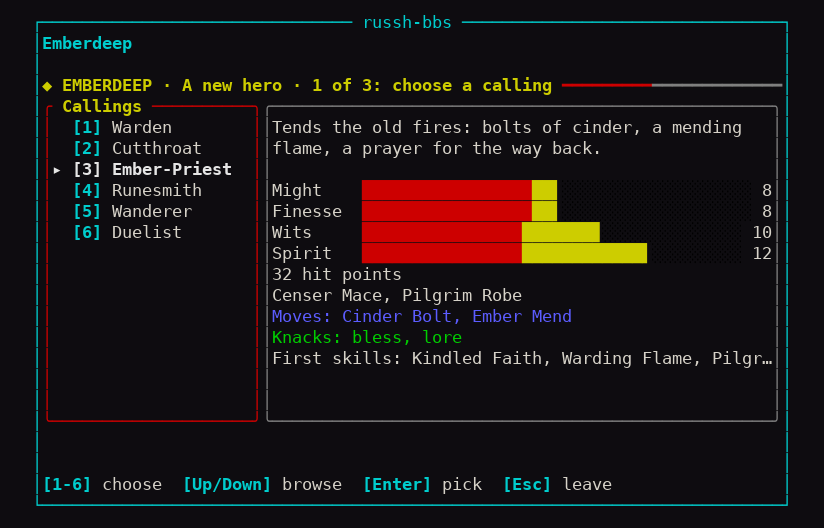
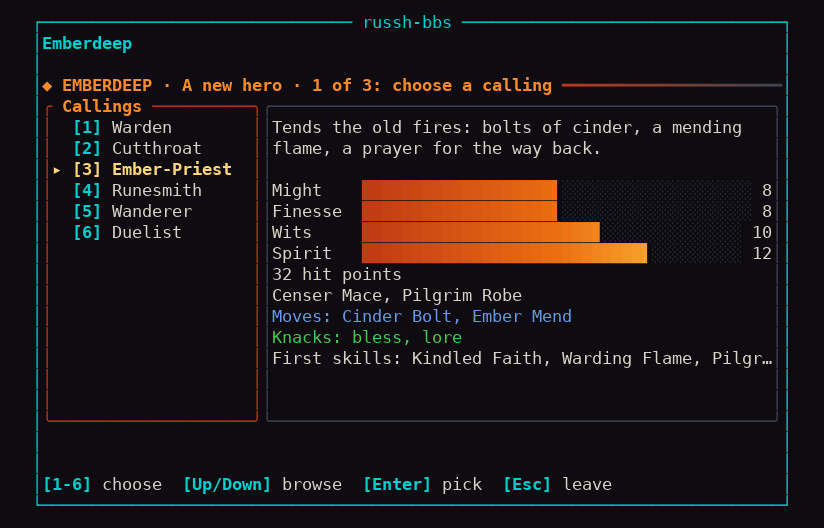
M4-E3: truecolor and 16-colour real-ssh screenshots, docs for client colour depth (D109), re-pin snapshots
Claude-Session: https://claude.ai/code/session_01HBFSyCPaUNCc1bchjmompo

diff --git a/crates/doors/emberdeep/src/session/ui/places.rs b/crates/doors/emberdeep/src/session/ui/places.rs
@@ -747,7 +747,7 @@ fn tavern(
             frame.render_widget(
                 plain_table(
                     cx,
-                    &["The board", "Depth", "Pay", "Days"],
+                    &["The board", "Lvl", "Pay", "Days"],
                     &[
                         Constraint::Fill(1),
                         Constraint::Length(4),

diff --git a/docs/decisions.md b/docs/decisions.md
@@ -127,4 +127,4 @@ Decided items are not reopened without the owner. Open items need the owner befo
 | D112 | **Long Haul crew, events, combat and contracts (M4-L2; builds D98, D103).** (1) **One scene at a time, saved with the captain.** An open transit event, ship fight or boarding is `Player::scene`; while one is open the only legal actions are its own (`Choose`, `Fight`, `Run`, `Wreck`, `Skirmish`) and everything else is refused `Busy`. Dropping the line mid-scene resumes it with the same state, so a reload cannot reroll a fight or an event. *Not taken:* resolving scenes in one call (no choices, no telegraph) and keeping the scene only in the session (a disconnect would reroll it). (2) **The save is append-only: format 2 = the L1 body plus a tail.** Standing for the Guild and the Church, the four new ledger causes, crew, contracts, flags, the keys of jobs and recruits already taken and the scene are appended after the L1 body, so the framework migration `1 -> 2` is "change the format byte and append an empty tail" and cannot lose or reinterpret anything L1 wrote (a frozen L1 save is in `tests/saves.rs`). The decoder still reads format 1. *Not taken:* rewriting the body in place (a migration that has to understand every field). (3) **A role adds to the captain, it does not replace them.** The best fit hand of a role adds half their skill rounded up (and one more once sworn) to the matching captain skill for jumps, repairs, trade spreads, inspections and survey value (`Player::eff`), never above 10; experience is earned on the captain's own level only. A hurt hand adds nothing; a scar costs a point. Events, combat and boarding also ask for roles directly (`Req::Role`): a sealed door opens to the party's engineering, a cache is read by a scientist or a captain with Surveying 3, a gunner leads the party. *Not taken:* crew as a flat stat block (the RPG rule asks for options that exist or do not). (4) **Mood moves loyalty; a goal ends the argument.** Four mood parts (pay, food, danger, treatment) sum to a daily loyalty drift of -3 to +2; meeting the hand's goal swears them to the ship (loyalty floor 70, a point more skill, they never desert). Unsworn hands at loyalty 15 or under walk at the next dock, alone or, two or more together, as a mutiny that takes a fifth of the purse. Wages are weekly, rations are bought at a dock and last a week, danger heals with calm days and treatment drifts to zero. (5) **Events are data with requirements, not code.** `content/transit.toml` holds 60 events; an option may carry requirements (role, sworn role, crew, skill, standing, flag, cargo, passenger, hazard, economy, weapons, scanner, background, `not`) and a closed option shows why. Weights are scaled by the system, cargo, standing and crew (`mods`), once-only events set a flag, and an outcome's weight can be tilted by a crew mix (`bonus`). The schema test rejects an event with no option anyone can take. (6) **Combat is bands, a reactor budget and an honest telegraph that can lie.** Three bands (far, mid, close), a reactor of 5 to 8 points (+1 and +2 for a good engineer) split each round between weapons, shields and engines plus a manoeuvre; the enemy's next move is shown before the captain commits, and an enemy with `feint_pm` can show a different one unless a scanner and a pilot see through it. Running is never refused. A fight ends by wreck, flight, defeat (hull at a tenth or less: cargo, cash and sometimes a hand are lost; League ships fine and seize contraband) or after 24 rounds. (7) **Jobs are a pure function of the station and a three-day epoch,** so every captain sees the same board and reconnecting cannot reroll it; standing gates what is shown (a faction at -40 posts nothing, bounties and escorts need +15 and +10, +25 pays a third more), a completed job moves its faction and (by a third) its rival. The Guild posts only at research stations and the Church at about a third of stations. Client cargo counts against the hold and client contraband is found by customs and kills the job. (8) **Not in this slice:** the shared-world effects of kills and outposts, convoys, opt-in piracy and the arcs (L4), and the full UI (L3). |
 | D107 | **Hallpass engine (M4-H1; builds D98).** (1) **Nine slots a day**, not seven: seven periods (four lessons, lunch, free, after school) plus evening and lights-out, because the design's night is where the mystery will live; the count and the day shapes are data (`timetable.toml`), so the open question "seven periods?" costs a table edit, not code. *Not taken:* seven slots with evening and night as screens outside the timetable (the schedules of staff and prefects at night, and what a patrol is, need the slots to be real). (2) **One engine type, `Game`, owns every rule; the screen is a client.** A character plus a snapshot of the world; every change is an `Action` returning typed `Event`s; the list of legal actions is built by trying each proposed action on a copy, so the menu can never offer what the engine refuses. *Not taken:* rules in the screen (D98: front ends stay thin). (3) **A hand-written binary codec** (`wire.rs`) for the save and the world, because the sandbox allows only `serde` and `toml` and `toml` here cannot write; reads are bounds-checked and exact, versions are the framework's. *Not taken:* a new serialization dependency (the sandbox audit would refuse it) or a text save (size against the 64 KiB cap). (4) **The shared world is changed only through pure, idempotent deltas** (`WorldDelta`): an effect already in force is not stacked, so the framework's retry on a conflict is safe. A session sees the world as it was when the visit opened; the framework has no in-session world read (noted for the framework owner). (5) **Content is data and the tone rules are tests**: no target is a Stray, targets are table ids and never typed, and every text is plain; a stray target or an unprankable prefect fails the schema test. (6) **Detention falls due the morning after it is given** (`due`), so a bust does not punish you for the period you are already in; missing it is a file entry. (7) **The term is 42 days from the world's first day**, rolled over by the daily tick; a character whose term has passed is closed out and starts again with their history. Tuning numbers (odds, file levels, allowance) live in `rules.toml` and are first values from the simulation, not decisions. | M4-H1 | Decided (2026-11-04, implementing session) |
 | D109 | **The application frame, tables, popups and colour depth (UI-1; builds D18, D39, D45, D49, D52, D54, D82, D93; amends D93 (1)).** (1) **Frame** (`ui::frame`). A header bar (board name, area name, `UTC HH:MM`) and a status bar (the screen's keys) around a body rectangle. A screen builds `FrameSpec::new(strings, look, tier).markers(..).place(..).clock(..).hints(..)`, calls `draw(frame)` and draws its content into the returned body. The bars take **chrome only**: `ChromeText` can be built only from the string table or a `'static` str, so member text cannot be passed to a bar. The status bar needs 2 rows and is always drawn from then on (this amends D93 (1), which reserved a row only when a marker applied: the row now carries hints, and still no marker is drawn on a member screen over ssh, no `SERVER-READABLE`, no privacy notice); the header needs 12 rows and 40 columns and is not drawn for the compact layout. (2) **The marker cell** is the status bar's left cell, drawn by `chrome::status_cell` (the one place that styles markers) with the reserved style and **no colour of its own**: the bar's background starts after it. It is outside the body, so ratatui's clipping keeps tables, popups and content out of it. **Reverse video belongs to the markers alone**: no bar, table row, header, popup or highlight uses it (the selected row is a pointer, bold, underline and the theme's selection colour; mono gets the pointer and weight). Tests assert, at 80x24, 100x30 and 132x43, in every tier, depth, theme, layout and with hostile content, that the reverse style is on the marker cells and on nothing else. (3) **Table** (`ui::table`): `TableSpec { title, columns: Vec<Column{title, Width::{Fixed,Min,Fill}, right, from_width}>, rows: Vec<TableRow{cells, detail}>, selected: Option<usize>, bordered, top, empty, numbered, footer }` and `render(frame, area, look, &spec) -> TableView{top, shown}`. The window follows the selection and the caller stores `TableView` (the forum lists keep it in `ListView` for their paging and `1`-`9` keys, FIX-M3-4). `Cell::content` is sanitized by the shared sanitizer when drawn (only the visible rows, so a long list costs nothing off screen), `Cell::chrome`/`plain` are not; columns that give way on narrow tables drop with their cells; the scrollbar and ellipsis follow the tier; cells are drawn one by one because a ratatui `Table` per row solved a layout per row (about 1.4 ms a row in a debug build). (4) **Popup** (`ui::popup`): `Popup { kind: Info|Error|Confirm, title, lines: Vec<PopupLine>, keys }` and `render(frame, body, look, &popup)`. It is placed and clamped inside the body it is given, so it cannot cover a bar or the marker cell; the kind is a title word, colour is extra. Forum errors and the remove confirmation are popups; info notices stay a line. (5) **Colour depth** (`ui::depth`): `ColorDepth::{Mono, Ansi16, Ansi256, TrueColor}`; `detect(term, colorterm)` reads `COLORTERM=truecolor|24bit`, `TERM` (`*-direct`, kitty, alacritty, wezterm, ghostty, foot, iterm: truecolor; `*256color`: 256; `dumb`, `unknown`, `vt*`: mono; anything else, or nothing: 16); `effective(detected, color_on, cap)` can only lower it. Sources: over ssh `TERM` from `pty-req` and `COLORTERM` from an `env` request (the one variable the handler accepts; every other `env` is still refused; both kept only as bounded terminal words and used for nothing else); over telnet the terminal type (RFC 1091, `DO TTYPE` in the opening, the answer read by the decoder: at most 40 characters of a terminal name's alphabet; the first answer wins and one that arrives after the shell starts is not used). **Member override today:** the colour on/off setting (off is mono). `effective` already takes a stored cap so UI-2 adds the 16/256/truecolor column without touching drawing. A `Tint` is truecolor, a 256 index or a named colour and resolves to the nearest cell down the tiers (a truecolor tint carries its own sixteen-colour choice); `Surfaces::of(palette.border)` derives the bar, stripe, header and selection colours from a theme. ratatui's crossterm backend writes named colours as `38;5;n`; terminals that read only SGR 30-37 are not specially handled. (6) **Clock.** The header clock is drawn with the screen and is not timer-driven, so D49 and "motion off means no timer-driven redraws" hold; a ticking header is UI-9. (7) **FIX-M3-6.** While telnet is on, the status bar's marker cell shows `LOW-SECURITY` on every screen of a staff-rank session (a role of rank 40 or more) and on the queue and vouch screens: the menus, settings family, members, community, invites, queue and forum lists. **Not yet:** the forum reader, mail, chat, door and editor screens still use the older geometry (their content is sized to a box that fills the screen) and move onto the frame in UI-4 and UI-5. (8) **Not taken:** drawing the bars inside each layout (every layout would repeat the marker rule); ratatui's `Table` widget (cost, and no control of the pointer column); a header on every screen (the settings screen needs its 22 rows at 80x24, so the settings family gets the status bar only); a clock on a timer. | The foundation of M3.5 has to make the marker rule easy to keep and hard to break: one place draws the cell, the type system keeps member text out of the bars, and a test matrix proves nothing else can use the reserved style. Small components with one entry point each (`FrameSpec::draw`, `table::render`, `popup::render`) are what UI-2 (layouts and styles), UI-5 (door canvas) and UI-10 (widgets) call. Detecting depth from the client keeps colour honest across ssh, telnet and old terminals. |
-| D-TBD | **Emberdeep UI (M4-E3; builds D98, D104, D110).** (1) **Full ratatui through D104, one layout per size class, no skins.** `session/ui` draws every screen into the door's buffer; below 64 by 16 the old text screen is used (it is also the look-around), the compact layouts fit the board's 74 by 19, 100 columns adds a hero card, 28 rows adds taller art and the big map. *Not taken:* a separate text-only mode per tier (the framework already maps the tiers). (2) **Same keys, same `Action`s.** The UI adds only session-local state (`UiState`: a cursor, a tab, where the town's list stood), never saved and never read by the engine; new keys are arrows, `Enter` and `Space` on lists. The place menu (`spot_view`) stays the single source of what can be done; the pictures read it. (3) **The torch's light is a picture.** Radius and warmth come from the turns left and only change how the map is drawn; the fog textures the whole grid so it never shows where an unseen room is. (4) **Options a build cannot take are shown with the reason**, taken from the room's own `need` list, on the screen and in the look-around ("Closed to you: ..."), because the RPG rule says two builds see different choices and the design says to show why. (5) **Colour.** Text uses the theme roles, art uses Emberdeep's own colours, and the ramps are saturated stops chosen to degrade to black, red, yellow and white at 16 colours (the depth the board composites at today, D104 (3)) and to read as smooth gradients at truecolor; nothing relies on colour alone. *Not taken:* a half-block pixel skyline (it looked right at truecolor and fell to a black blob at 16 colours). (6) **Fixtures.** `showcase` builds saves in known states with the engine's own constructors (hidden from the docs, called by no rule); the render and snapshot tests open the door on them and press keys, as a player does, from `tests/screens.rs` (the sandbox audit forbids files and the environment in `src`). | The owner asked for Emberdeep to look like a next-gen BBS ("use ratatui to make them look cool") with every screen working at 80x24 and in the ASCII tier, a look-around for each, and no rules in the UI. |
+| D-TBD | **Emberdeep UI (M4-E3; builds D98, D104, D110).** (1) **Full ratatui through D104, one layout per size class, no skins.** `session/ui` draws every screen into the door's buffer; below 64 by 16 the old text screen is used (it is also the look-around), the compact layouts fit the board's 74 by 19, 100 columns adds a hero card, 28 rows adds taller art and the big map. *Not taken:* a separate text-only mode per tier (the framework already maps the tiers). (2) **Same keys, same `Action`s.** The UI adds only session-local state (`UiState`: a cursor, a tab, where the town's list stood), never saved and never read by the engine; new keys are arrows, `Enter` and `Space` on lists. The place menu (`spot_view`) stays the single source of what can be done; the pictures read it. (3) **The torch's light is a picture.** Radius and warmth come from the turns left and only change how the map is drawn; the fog textures the whole grid so it never shows where an unseen room is. (4) **Options a build cannot take are shown with the reason**, taken from the room's own `need` list, on the screen and in the look-around ("Closed to you: ..."), because the RPG rule says two builds see different choices and the design says to show why. (5) **Colour.** Text uses the theme roles, art uses Emberdeep's own colours, and the ramps are saturated stops chosen to degrade to black, red, yellow and white at 16 colours (the depth of a client that does not say it can do more, D109) and to read as smooth gradients at truecolor; nothing relies on colour alone. *Not taken:* a half-block pixel skyline (it looked right at truecolor and fell to a black blob at 16 colours). (6) **Fixtures.** `showcase` builds saves in known states with the engine's own constructors (hidden from the docs, called by no rule); the render and snapshot tests open the door on them and press keys, as a player does, from `tests/screens.rs` (the sandbox audit forbids files and the environment in `src`). | The owner asked for Emberdeep to look like a next-gen BBS ("use ratatui to make them look cool") with every screen working at 80x24 and in the ASCII tier, a look-around for each, and no rules in the UI. |

diff --git a/docs/features.md b/docs/features.md
@@ -53,7 +53,7 @@ Update this table in the same pass as the code.
 | Hallpass engine (M4-H1, D107) | M4 | Implemented; Verified by tests (engine, schemes, RPG branches, shared world through the framework, replay with pinned branches, 80x24 screen on both transports, source audit, 6-week simulation) and a walk with the OpenSSH client; not exercised by hand: a big scheme over ssh, telnet, Postgres | `crates/doors/hallpass`. Timetable, school map, character schedules, stats and traits, schemes (combinable plans, setup, sneak/act/escape, heat, the file, legend, staff who learn, campaigns, big schemes that change the shared world), the term clock and the day tick, saves, and a minimal text screen. Classes and clubs, conversations, the full UI, the social layer and the mystery are later slices ([doors/hallpass.md](doors/hallpass.md)) |
 | Emberdeep engine (M4-E1, D101) | M4 | Implemented; Verified by unit tests of every rule (telegraphed intent honored, build branches, economy, death and rescue, world merges, saves), replay tests through the framework, the framework's sandbox audit, a 30-day headless simulation, and a walk with the OpenSSH client; not exercised over telnet or against Postgres | `crates/doors/emberdeep`, registered in `server::doors::Doors::builtin()`. The hero, the seasonal shared dungeon, turn-based combat, the torch-turn economy, death and rescue, the nightly tick, saves and a minimal text screen. Town, crafting, the full UI, parties, duels and the content pass are Planned (M4-E2 to E4); see [doors/emberdeep.md](doors/emberdeep.md) |
 | Emberdeep town and crafting (M4-E2, D110) | M4 | Implemented; Verified by unit tests of every rule (market, forge, wear, affixes, ember-cores, recipes and the runesmith's edge, temple, guild, tavern, dice and debt, companions, the contract board), branch tests of the RPG rule (a project's completion changes options for every player, a core changes combat options, a calling and a node unlock recipes), the no-double-credit invariants (a pledge applied twice, in any order or on a stale world credits once; heroes' totals equal the world's after 30 simulated days), content reachability and schema tests, a pinned real E1 save and world that migrate to format 2, replay tests through the framework, the framework's sandbox audit, a 30-day headless run with project progress and gear curves, and a walk with the OpenSSH client; not exercised over telnet, against Postgres, or by two human accounts over ssh | `crates/doors/emberdeep`. Cindermere's places, shared town projects (forge, temple, market, guild, library, reliquary, lifts to level 6 and 11), gear drops, wear and repair, affixes, ember-cores, recipes, the tavern board, save and world format 2 (D110). The full UI, parties, duels and the content pass are Planned (M4-E3 to E4); see [doors/emberdeep.md](doors/emberdeep.md) |
-| Emberdeep UI (M4-E3, D-TBD) | M4 | Implemented; Verified by render tests of every screen at 80x24, 100x30 and 132x43 in each icon tier and colour depth, pinned text snapshots, a look-around test for every screen, an interaction test of one whole day (town, descent, an event, a fight, back up), the framework's sandbox audit, and a walk with the OpenSSH client with a screenshot of each screen. Not built: mouse (UI-9), effects (UI-8), a per-member colour depth | Full ratatui screens over the same engine and keys: dungeon map with fog and a torch-lit radius, combat panel with announced actions, hero sheet and skill tree, the town and its eight places with cost previews, event scenes that show why a build cannot take an option, the hall, hero creation. [doors/emberdeep.md](doors/emberdeep.md) |
+| Emberdeep UI (M4-E3, D-TBD) | M4 | Implemented; Verified by render tests of every screen at 80x24, 100x30 and 132x43 in each icon tier and colour depth, pinned text snapshots, a look-around test for every screen, an interaction test of one whole day (town, descent, an event, a fight, back up), the framework's sandbox audit, and a walk with the OpenSSH client with a screenshot of each screen. Not built: mouse (UI-9), effects (UI-8) | Full ratatui screens over the same engine and keys: dungeon map with fog and a torch-lit radius, combat panel with announced actions, hero sheet and skill tree, the town and its eight places with cost previews, event scenes that show why a build cannot take an option, the hall, hero creation. [doors/emberdeep.md](doors/emberdeep.md) |
 | Door games | M4 | In progress | Rust-native. Framework and a coin-toss example are in; the Saltmarch engine (M4-S1) and expeditions and combat (M4-S2, D108) are in review; Saltmarch is registered on the board with a plain text screen (the real screens are S3). Five original designs proposed in [doors/](doors/README.md): Saltmarch (flagship), Nullroute, Long Haul, Emberdeep, Hallpass; each is its own slice on top of the framework |
 | Nullroute engine (M4-N1, D102) | M4 | Implemented; Verified by unit, property and replay tests, a 30-day headless simulation, the framework's sandbox audit and a walk with the OpenSSH client (see the PR). The node map UI (N3), crews, honeypots, bounties and arcs (N4) are Planned | `crates/doors/nullroute`, [doors/nullroute.md](doors/nullroute.md) |
 | Nullroute countermeasures, encounters, coding and script degradation (M4-N2, D111) | M4 | Implemented (in review); Verified by schema, unit, property and replay tests (fairness of every tier's fights, the warden gate, degradation forcing a different deck, v1 save and world migration), the 30-day headless simulation (numbers in the PR and [doors/nullroute.md](doors/nullroute.md)) and the framework's sandbox audit. **Not** walked over a real ssh client (none in the build environment). The fight and workbench screens are minimal text (N3 replaces them). Crews, honeypots, bounties and arcs (N4) are Planned | `crates/doors/nullroute`, [doors/nullroute.md](doors/nullroute.md) |

diff --git a/docs/doors/emberdeep.md b/docs/doors/emberdeep.md
@@ -226,7 +226,7 @@ The core tension: **how deep do you go today?** Each level down is richer and mo
 
 ## Implementation notes (M4-E3)
 
-**Status.** Every screen is drawn with ratatui into the door's own buffer (D104), over the same engine and the same keys (D-TBD). **Implemented:** the dungeon view and its map, the combat panel, the hero sheet and the skill tree, the town hub and each of its eight places, event scenes, the hall, hero creation, the death screen, and a look-around for all of them. **Verified:** by render tests of every screen at 80x24, 100x30 and 132x43 in each icon tier and each colour depth (shape, ASCII-only in the ASCII tier, no marker style), pinned text snapshots, a look-around test for every screen, an interaction test of one whole day, the framework's sandbox audit, and a walk over a real OpenSSH client with a screenshot of each screen (attached to the pull request). **Not built:** mouse (UI-9), effects and motion (UI-8), a per-member colour depth, and the social slice.
+**Status.** Every screen is drawn with ratatui into the door's own buffer (D104), over the same engine and the same keys (D-TBD). **Implemented:** the dungeon view and its map, the combat panel, the hero sheet and the skill tree, the town hub and each of its eight places, event scenes, the hall, hero creation, the death screen, and a look-around for all of them. **Verified:** by render tests of every screen at 80x24, 100x30 and 132x43 in each icon tier and each colour depth (shape, ASCII-only in the ASCII tier, no marker style), pinned text snapshots, a look-around test for every screen, an interaction test of one whole day, the framework's sandbox audit, and a walk over a real OpenSSH client with a screenshot of each screen (attached to the pull request). **Not built:** mouse (UI-9), effects and motion (UI-8), and the social slice.
 
 ### What is built, and where
 
@@ -251,7 +251,7 @@ The core tension: **how deep do you go today?** Each level down is richer and mo
 - **The light is a picture.** How far the torch reaches (0 to 3 rooms) and how warm it burns come from the turns left; they change how the map is drawn and nothing else. The fog is drawn over the whole grid, so it never shows where an unseen room is.
 - **Two builds, one room.** A room option the build cannot take is listed under the ones it can, with the first condition it fails (`needs runecraft`, `needs Might 12`, `a runesmith only`). The look-around says the same ("Closed to you: ..."), so a screen reader hears what a sighted player sees. A `◆` marks an option that exists only because of the build.
 - **Prices that move.** The market shows the average ask of the shelf over the last fourteen days as a sparkline; it asks the engine for each day (the market is a pure function of the day), it does not invent a curve.
-- **Colour.** Text uses the theme's roles; art uses Emberdeep's own colours. The board composites doors at 16 colours today (D104), so the ramps are made of saturated stops that degrade to black, red, yellow and white and not to grey; at truecolor they are smooth gradients. Nothing relies on colour alone: every meter prints its numbers, every threat has a word, the stance and the cursor have a mark.
+- **Colour.** Text uses the theme's roles; art uses Emberdeep's own colours. The board composites a door at the client's depth (D109), so the ramps are made of saturated stops that degrade to black, red, yellow and white and not to grey at 16 colours, and are smooth gradients at 256 colours and truecolor (both were walked over ssh). Nothing relies on colour alone: every meter prints its numbers, every threat has a word, the stance and the cursor have a mark.
 - **ASCII tier.** The framework maps box drawing, blocks and arrows; a last pass maps the few icons it does not (ellipsis, the dagger, the lock-and-key marks). The ASCII tier is pure ASCII at every size (tested).
 - **Size.** At the board's 74 by 19 every screen fits (the map and the scene side by side, two rows of gauges, three rows of log, two rows of keys). More height gives a bigger map with boxed rooms, a longer log and room vignettes; at 100 columns and more the dungeon view adds the hero's card. The board's box is capped at 76 columns, so the wide layouts show only where the window is wider than that box can be today; they are tested at full window size.
 
@@ -265,6 +265,6 @@ The core tension: **how deep do you go today?** Each level down is richer and mo
 
 - **Mouse (UI-9)** is a new default-bodied method on `DoorSession`; the lists are `ratatui` `List`s with a cursor in `UiState`, which is where a click would set it.
 - **Effects (UI-8)** run on the surface after `draw`; the screens draw from the state alone (no clock), so a fade between screens needs nothing from them.
-- **A per-member colour depth** changes nothing here: the ramps already degrade; truecolor members will see the smooth ones.
+- **A stored colour cap** (UI-2) changes nothing here: the ramps already degrade at every depth the board composites.
 - **Social (E4).** The hall already has a tab for the dead and for the world; parties and duels add rows to the same list-and-detail widget (`sheet::list_detail`).
 

diff --git a/docs/doors/emberdeep-ui/README.md b/docs/doors/emberdeep-ui/README.md
@@ -1,12 +1,14 @@
 # Emberdeep UI screenshots (M4-E3)
 
-Two sets, both made from the code in this branch.
+All made from the code in this branch.
 
-**`real-ssh/`** are the real thing: an OpenSSH client in a 80x24 terminal (tmux) against a running `russh-bbs-server`, signed in as the sysop and walked through one whole day (make a hero, each place in town, down the stair, an event, a fight, the map, back up). The capture is the terminal screen with its colours (`tmux capture-pane -e`) drawn to a PNG with a monospace font; the board composites doors at **16 colours** today (D104), so this is the plainest the screens will look.
+**`real-ssh/`**: the real thing. An OpenSSH client in an 80x24 terminal (tmux, `TERM=xterm-direct` so the board composites in true colour, D109) against a running `russh-bbs-server`, signed in as the sysop and walked through one whole day: make a hero, each place in town, down the stair, a fight, an event, the map, back up. The capture is the terminal screen with its colours (`tmux capture-pane -e`) drawn to a PNG with a monospace font; a real terminal's font and exact colours differ.
 
-**`sizes/`** are the same screens at the three terminal sizes (80x24 is above; 100x30 and 132x43 here), in true colour and in the ASCII icon tier, and at the full window width where the board does not cap the box (130x39, the wide layouts). They come from `cargo test -p russh-bbs-door-emberdeep --test screens dump_screens -- --ignored` with `EMBERDEEP_SHOTS=dir` and the same PNG drawing.
+**`real-ssh-16/`**: the same walk from a client that only says `TERM=screen`, so the board composites at **16 colours**, the plainest the screens will look.
 
-## Real ssh, 80x24, 16 colours
+**`sizes/`**: the same screens at the three terminal sizes (80x24 is `real-ssh/`; 100x30 and 132x43 here), in true colour and in the ASCII icon tier, and at the full window width where the board does not cap the box (130x39, the wide layouts). They come from `EMBERDEEP_SHOTS=dir cargo test -p russh-bbs-door-emberdeep --test screens dump_screens -- --ignored` and the same PNG drawing.
+
+## Real ssh, 80x24, true colour
 
 | Screen | Picture |
 |---|---|
@@ -25,7 +27,6 @@ Two sets, both made from the code in this branch.
 | Skill tree with a detail pane | ![13-skills](real-ssh/13-skills.png) |
 | Hero sheet: numbers | ![14-sheet](real-ssh/14-sheet.png) |
 | Hero sheet: marks | ![15-sheet-marks](real-ssh/15-sheet-marks.png) |
-| Hero sheet: moves and knacks | ![15b-sheet-moves](real-ssh/15b-sheet-moves.png) |
 | The hall: standings | ![16-hall](real-ssh/16-hall.png) |
 | The hall: the dead | ![17-hall-dead](real-ssh/17-hall-dead.png) |
 | The hall: what heroes changed | ![18-hall-world](real-ssh/18-hall-world.png) |
@@ -37,6 +38,19 @@ Two sets, both made from the code in this branch.
 | The sheet, opened below | ![25-sheet-delve](real-ssh/25-sheet-delve.png) |
 | Deeper in the level | ![26-delve-late](real-ssh/26-delve-late.png) |
 | Back in town, torches spent | ![27-back-in-town](real-ssh/27-back-in-town.png) |
+
+## Real ssh, 80x24, 16 colours
+
+| Screen | Picture |
+|---|---|
+| Cindermere: skyline, tavern board, the places, the way down | ![04-town](real-ssh-16/04-town.png) |
+| Market: stalls, a 14-day shelf-price sparkline, a cost preview | ![05-market](real-ssh-16/05-market.png) |
+| Forge: repairs, recipes, a cost preview with what is left | ![07-forge](real-ssh-16/07-forge.png) |
+| Hero sheet: numbers | ![14-sheet](real-ssh-16/14-sheet.png) |
+| The hall: standings | ![16-hall](real-ssh-16/16-hall.png) |
+| An event scene: choices, and the ones this build cannot take with the reason | ![21-event-scene](real-ssh-16/21-event-scene.png) |
+| Deeper in the level | ![26-delve-late](real-ssh-16/26-delve-late.png) |
+| Back in town, torches spent | ![27-back-in-town](real-ssh-16/27-back-in-town.png) |
 
 ## Other sizes, tiers and depths
 

diff --git a/docs/coordination.md b/docs/coordination.md
@@ -349,4 +349,4 @@ Add a line here if you need a change in code another slice owns. Do not make it 
 | M4-E2 | orchestrator | FYI, shared files touched, all additive: `crates/doors/framework/src/sim.rs` (per-player simulated handle, above), `docs/decisions.md` (D110, assigned by the orchestrator), `docs/features.md`, `docs/doors/README.md`, `docs/doors/emberdeep.md`. No migration, no new dependency, no change to the server crate (Emberdeep is already registered). The door's save and world are now version 2; boards with E1 data migrate on open. | |
 | M4-E3 | M4-E4 (social, content, balance) | The UI is `session/ui/*` (see [doors/emberdeep.md](doors/emberdeep.md)); nothing in it knows a rule. To add a screen: a `Screen` or `Spot` arm in `session.rs`, a draw function in `ui`, a `look_around` line set, a `showcase` entry and a snapshot (`UPDATE_SNAPSHOTS=1 cargo test -p russh-bbs-door-emberdeep --test screens`). Lists are `sheet::list_detail` (rows with a detail pane) and the places' tables; parties, duels and a donors' roll are new rows or new tabs on those. The town's menu keys still shift when an item leaves a list (D110); the UI prints the key each row has today, so a stall that is sold shows `[-]`. Content is unchanged. | |
 | M4-E3 | M4-QA | Walk it with a real `ssh` client (the walk used for this slice is in the PR description with a screenshot of each screen): Doors, Emberdeep; on a new hero browse the callings with Up and Down and pick; at the hub open each place with `Enter` and with its letter and compare the preview's cost with what happens; in a room with options check that a different build shows different `[1]` choices and a `✗` line with the reason; fight (the announced action under each enemy is what happens next round; the order line; the stance tabs); `m` for the map and watch the light shrink as the turns run down; `c` and `s` (Up/Down, Left/Right, Enter on a skill); `r` the hall (three tabs); die and see the screen; ASCII tier (Terminal settings, icon style) and a window narrower than 64 columns (the text screen). Over telnet: not exercised. | |
-| M4-E3 | orchestrator | FYI, shared files touched: `docs/decisions.md` (a row marked D-TBD for you to number), `docs/features.md`, `docs/doors/README.md`, `docs/doors/emberdeep.md`; everything else is inside `crates/doors/emberdeep` (the existing text screen in `session.rs` stays as the small-window view and the look-around, `session/places.rs` only widened three helper functions to `pub(super)`). No framework change, no migration, no new dependency. The screens were checked at 16 colours over real ssh because that is the depth the board composites doors at; per-member depth (a settings change in core, D104 (3)) would only make them smoother. | |
+| M4-E3 | orchestrator | FYI, shared files touched: `docs/decisions.md` (a row marked D-TBD for you to number), `docs/features.md`, `docs/doors/README.md`, `docs/doors/emberdeep.md`; everything else is inside `crates/doors/emberdeep` (the existing text screen in `session.rs` stays as the small-window view and the look-around, `session/places.rs` only widened three helper functions to `pub(super)`). No framework change, no migration, no new dependency. The screens were walked over real ssh at 16 colours and at truecolor (`TERM=xterm-direct`), the client's depth being what D109 composites at. | |
